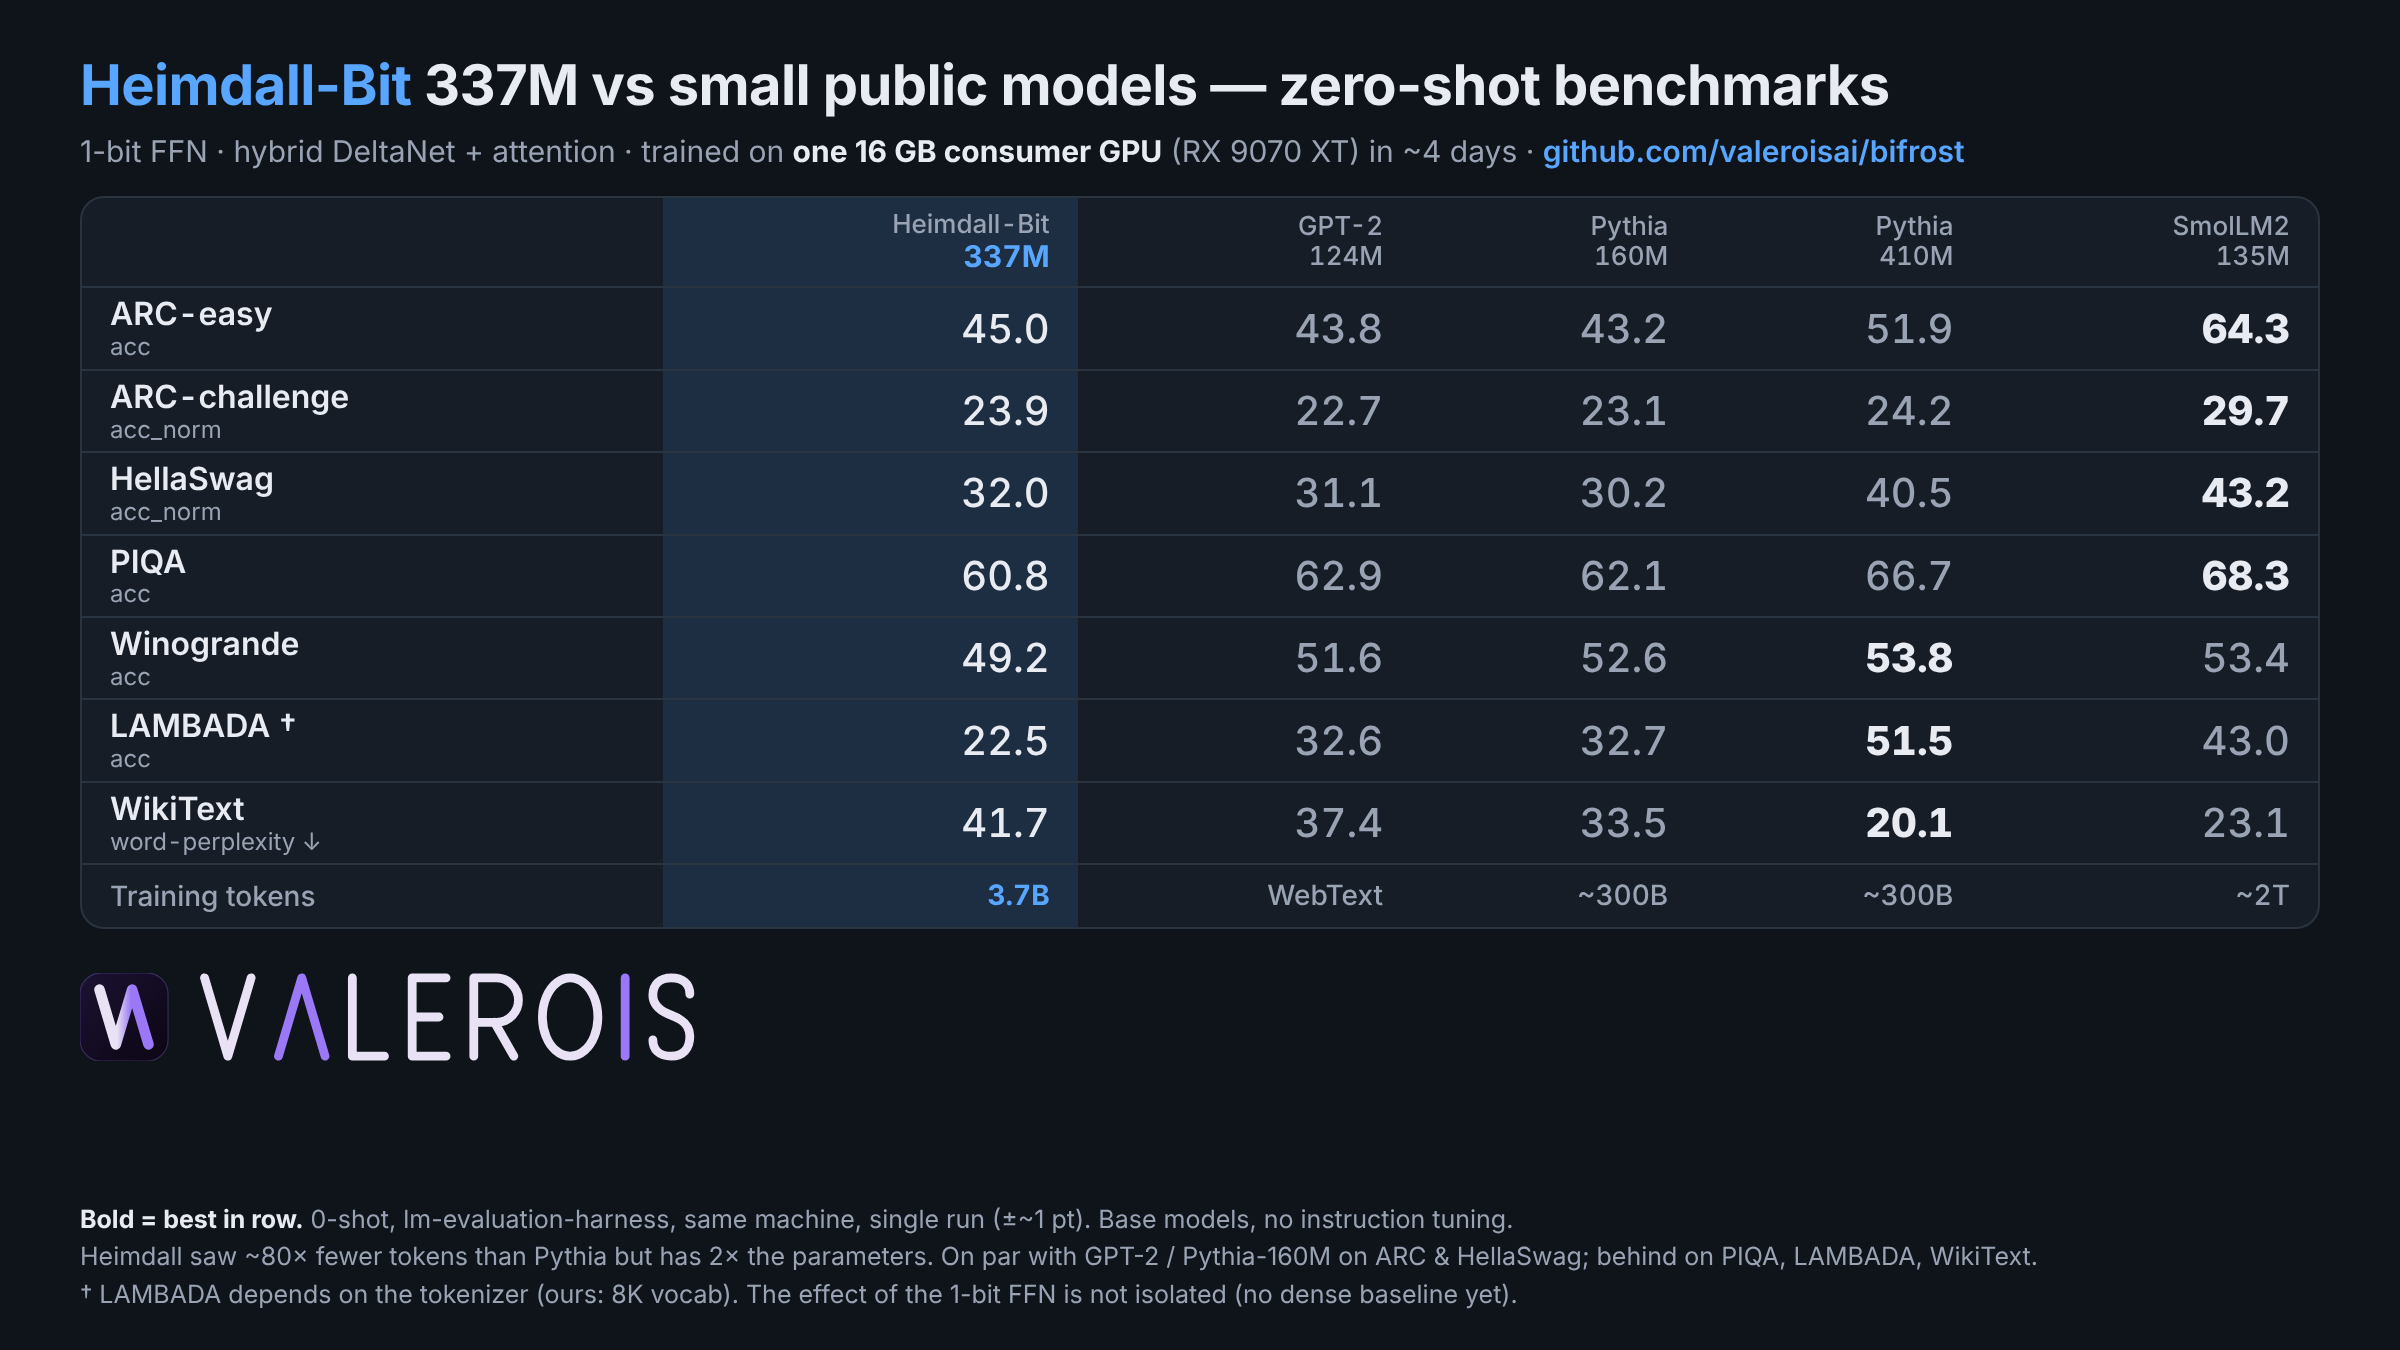
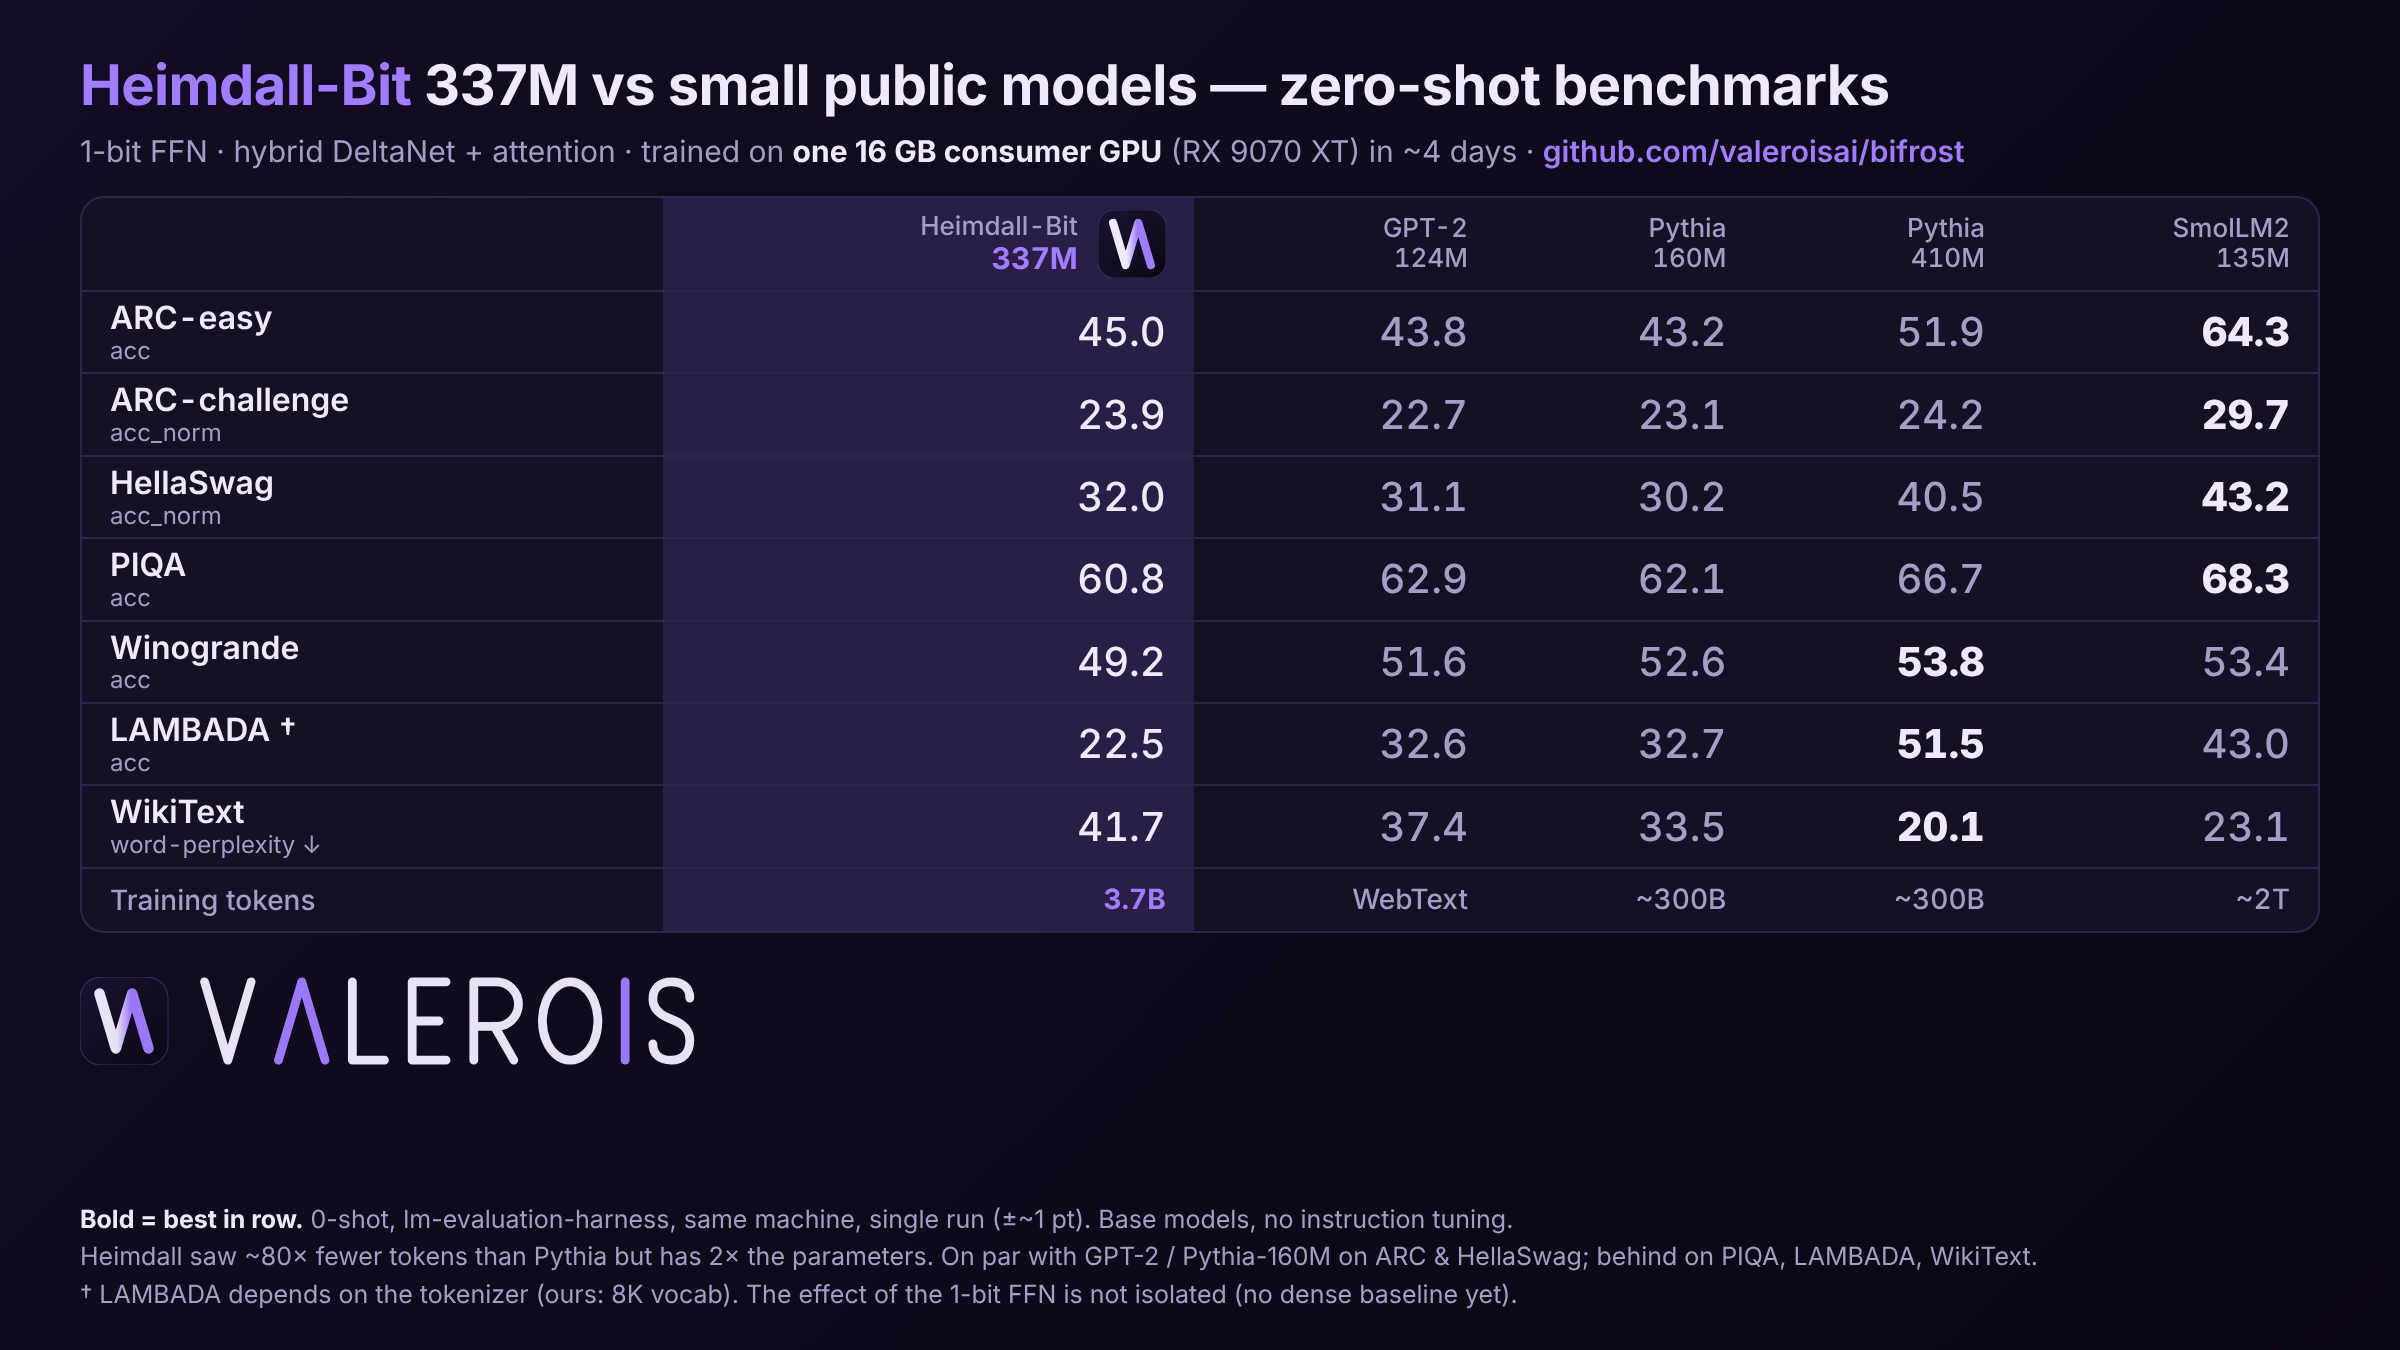
docs: benchmark card in obsidian-purple palette, Valerois mark next to the Heimdall column
Claude-Session: https://claude.ai/code/session_01E91Wnf1UGrdqScQ58re4od

diff --git a/docs/benchmark_card.html b/docs/benchmark_card.html
@@ -1,7 +1,7 @@
 <!doctype html><html lang="en"><meta charset="utf-8"><title>Heimdall benchmark card</title>
 <style>
-:root{--bg:#0f141b;--card:#161d27;--line:#2a3340;--fg:#e8ecf2;--mut:#99a3b3;--acc:#58a6ff;--hl:rgba(88,166,255,.13)}
-*{box-sizing:border-box}body{margin:0;width:1200px;height:675px;background:var(--bg);color:var(--fg);font:16px/1.35 "Inter","Helvetica Neue",system-ui,sans-serif;display:flex;flex-direction:column;padding:24px 40px 18px}
+:root{--bg:#0e0716;--card:#170f26;--line:#2f2347;--fg:#efe9fb;--mut:#a89cc4;--acc:#a07cff;--hl:rgba(160,124,255,.15)}
+*{box-sizing:border-box}body{margin:0;width:1200px;height:675px;background:linear-gradient(135deg,#150b24,#0b0613);color:var(--fg);font:16px/1.35 "Inter","Helvetica Neue",system-ui,sans-serif;display:flex;flex-direction:column;padding:24px 40px 18px}
 h1{font-size:28px;margin:0;letter-spacing:-.3px;white-space:nowrap}h1 em{font-style:normal;color:var(--acc)}
 .sub{color:var(--mut);margin:4px 0 12px;font-size:15px;white-space:nowrap}
 table{width:100%;border-collapse:separate;border-spacing:0;background:var(--card);border:1px solid var(--line);border-radius:12px;overflow:hidden}
@@ -17,7 +17,7 @@ tr.tok td.hl{color:var(--acc);font-weight:700}
 </style><body>
 <h1><em>Heimdall-Bit</em> 337M vs small public models &mdash; zero-shot benchmarks</h1>
 <div class="sub">1-bit FFN &middot; hybrid DeltaNet + attention &middot; trained on <b style="color:var(--fg)">one 16&nbsp;GB consumer GPU</b> (RX&nbsp;9070&nbsp;XT) in ~4 days &middot; <span style="color:var(--acc);font-weight:600">github.com/valeroisai/bifrost</span></div>
-<table><thead><tr><th></th><th class="hl">Heimdall-Bit<br><b>337M</b></th><th class="">GPT-2<br>124M</th><th class="">Pythia<br>160M</th><th class="">Pythia<br>410M</th><th class="">SmolLM2<br>135M</th></tr></thead>
+<table><thead><tr><th></th><th class="hl"><div style="display:flex;align-items:center;justify-content:flex-end;gap:10px"><span>Heimdall-Bit<br><b>337M</b></span><svg xmlns="http://www.w3.org/2000/svg" viewBox="0 0 100 100"  aria-label="Valerois" width="34" height="34" style="display:block;flex:none"><defs><linearGradient id="gmt" x1="0" y1="0" x2="1" y2="1"><stop offset="0" stop-color="#1d1233"/><stop offset="1" stop-color="#0c0614"/></linearGradient></defs><rect width="100" height="100" rx="24" fill="url(#gmt)" stroke="#a07cff" stroke-opacity=".30" stroke-width="1.2"/><defs><linearGradient id="gm" gradientUnits="userSpaceOnUse" x1="22.175000000000004" y1="0" x2="77.82499999999999" y2="0"><stop offset="0.36" stop-color="#efe9fb"/><stop offset="0.64" stop-color="#a07cff"/></linearGradient></defs><path d="M22.2 18.9 L40.7 81.1 L59.3 18.9 L77.8 81.1" fill="none" stroke-width="12" stroke-linecap="round" stroke-linejoin="round" stroke="url(#gm)"/></svg></div></th><th class="">GPT-2<br>124M</th><th class="">Pythia<br>160M</th><th class="">Pythia<br>410M</th><th class="">SmolLM2<br>135M</th></tr></thead>
 <tbody>
 <tr><th>ARC-easy<span>acc</span></th><td class="hl ">45.0</td><td class="">43.8</td><td class="">43.2</td><td class="">51.9</td><td class="best">64.3</td></tr>
 <tr><th>ARC-challenge<span>acc_norm</span></th><td class="hl ">23.9</td><td class="">22.7</td><td class="">23.1</td><td class="">24.2</td><td class="best">29.7</td></tr>
